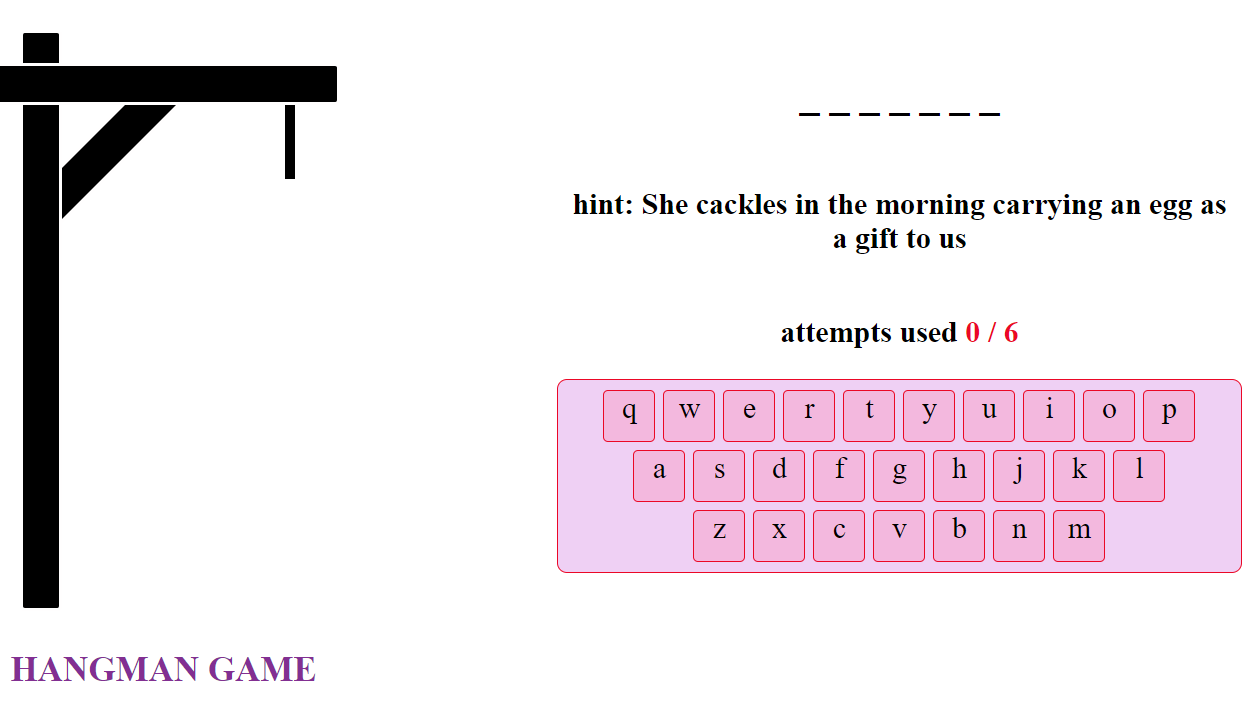
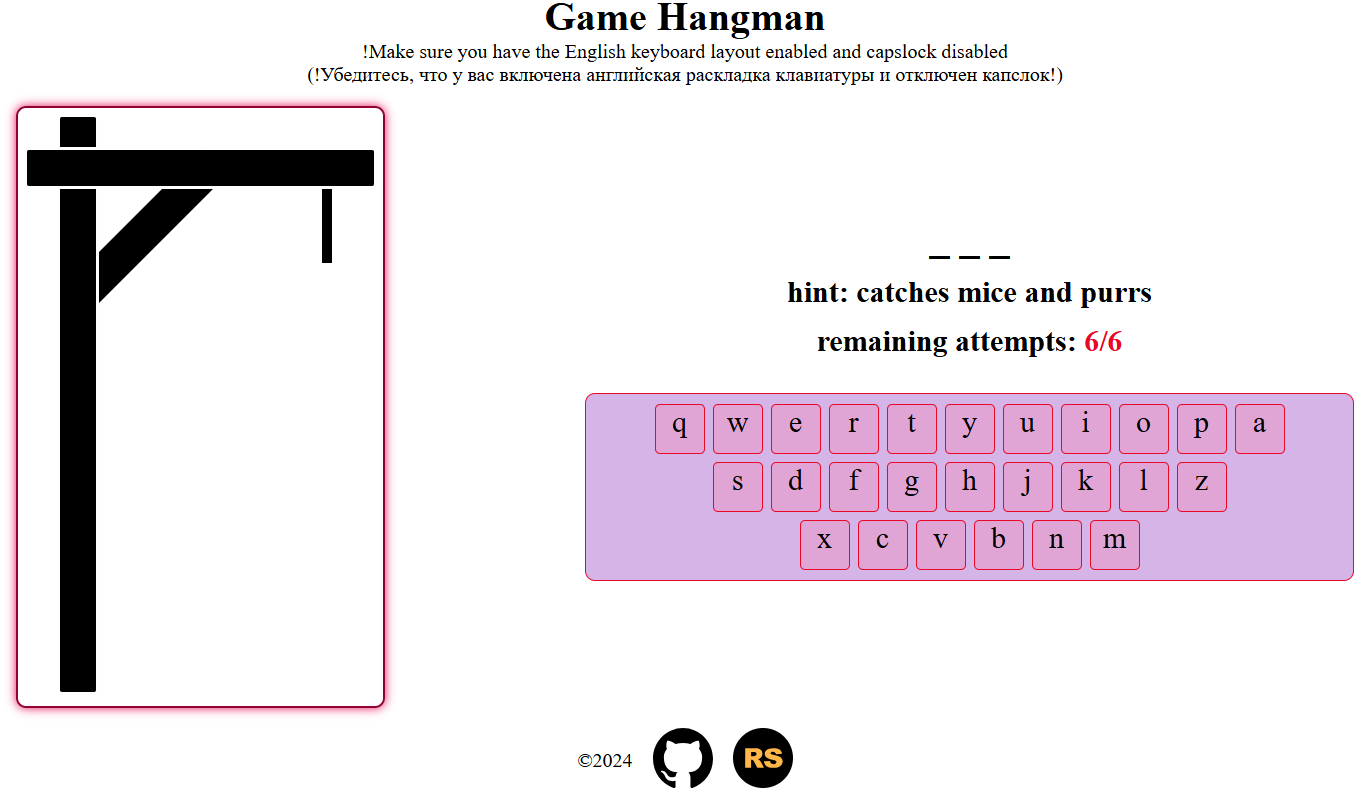
feat: new projects added for projects section

diff --git a/index.html b/index.html
@@ -116,34 +116,61 @@
             </pre>
          </section>
          <section class="section" id="projects">
-            <h2>Projects:</h2>
+            <h2>My projects:</h2>
             <div class="container_projects">
                <div class="projects_item">
-                  <a href="https://rolling-scopes-school.github.io/besyashka-JSFE2023Q4/coffee-house/pages/home/index.html" class="link" target="_blank">
+                  <a href="https://besyashka.github.io/project-Coffee-house/coffee-house/" class="link" target="_blank">
                      <img src="./assets/png/coffee-house.png" alt="image site Coffee house" class="projects-img">
                   </a>
-                  <a href="https://rolling-scopes-school.github.io/besyashka-JSFE2023Q4/coffee-house/pages/home/index.html" class="link" target="_blank">
-                     <h3>Site - Coffee house</h3>
+                  <a href="https://besyashka.github.io/project-Coffee-house/coffee-house/" class="link" target="_blank">
+                     <h4>Coffee house (website)</h4>
                   </a>
-                  <p>Coffee shop is a project within which a website was created, consisting of two pages, with adaptive and interactive design (design taken from Figma).</p>
+                  <p>Coffee shop is a website consisting of two pages, was made adaptive and interactive. Layout of the site based on the layout of the  Figma (acceptable deviation from the layout is 10px).</p>
+               </div>
+               <div class="projects_item">
+                  <a href="https://besyashka.github.io/my-projects-rss/shelter/" class="link" target="_blank">
+                     <img src="./assets/png//shelter.png" alt="image site shelter" class="projects-img">
+                  </a>
+                  <a href="https://besyashka.github.io/my-projects-rss/shelter/" class="link" target="_blank">
+                     <h4>Shelter (website)</h4>
+                  </a>
+                  <p>Shelter is a website consisting of two pages, was made adaptive and interactive. Layout of the site based on the layout of the  Figma (acceptable deviation from the layout is 10px).</p>
+               </div>
+               <div class="projects_item">
+                  <a href="https://besyashka.github.io/my-projects-rss/random-game/" class="link" target="_blank">
+                     <img src="./assets/png/hangman.png" alt="image game hangman" class="projects-img">
+                  </a>
+                  <a href="https://besyashka.github.io/my-projects-rss/random-game/" class="link" target="_blank">
+                     <h4>Hangman (game)</h4>
+                  </a>
+                  <p>This game is Hangman, a classic word game where you have to find the correct answer by guessing the letters one by one. Сan use either a virtual or physical keyboard. These are game in which the body in the index.html file must initially be empty, all the necessary elements are generated using JS.</p>
                </div>
                <div class="projects_item">
                   <a href="https://rolling-scopes-school.github.io/besyashka-JSFE2023Q4/nonograms/" class="link" target="_blank">
-                     <img src="./assets/png/nonograms.png" alt="image game Nonograms" class="projects-img">
+                     <img src="./assets/png/nonograms.png" alt="image game nonograms" class="projects-img">
                   </a>
                   <a href="https://rolling-scopes-school.github.io/besyashka-JSFE2023Q4/nonograms/" class="link" target="_blank">
-                     <h3>Game - Nonograms</h3>
+                     <h4>Nonograms (game)</h4>
                   </a>
-                  <p>Game Nonograms is a project within which the classic game - Japanese crosswords - was implemented. All necessary elements are generated using JS.</p>
+                  <p>Game Nonograms is a project within which the classic game - Japanese crosswords - was implemented. These are game in which the body in the index.html file must initially be empty, all the necessary elements are generated using JS.</p>
                </div>
                <div class="projects_item">
-                  <a href="https://rolling-scopes-school.github.io/besyashka-JSFE2023Q4/hangman/" class="link" target="_blank">
-                     <img src="./assets/png/hangman.png" alt="image game Hangman" class="projects-img">
+                  <a href="https://besyashka.github.io/my-projects-rss/audio-player/" class="link" target="_blank">
+                     <img src="./assets/png/audio-player.png" alt="image audio player" class="projects-img">
                   </a>
-                  <a href="https://rolling-scopes-school.github.io/besyashka-JSFE2023Q4/hangman/" class="link" target="_blank">
-                     <h3>Game - Hangman</h3>
+                  <a href="https://besyashka.github.io/my-projects-rss/audio-player/" class="link" target="_blank">
+                     <h4>Audio player (player)</h4>
                   </a>
-                  <p>The Hangman game is a project that implements a word game in which you need to find the correct answer by guessing the letters one by one. It is possible to use both a virtual keyboard and a physical keyboard to play the game.</p>
+                  <p>This is a music player that allows you to play music tracks one by one or scroll through them by clicking on the buttons. Each music track has a specific image, title and author of the track. The duration of the audio track and its current playing time are displayed.</p>
+               </div>
+               <div class="projects_item">
+                  <a href="https://besyashka.github.io/my-projects-rss/image-gallery/" class="link" target="_blank">
+                     <img src="./assets/png/image-gallery.png" alt="image image gallery" class="projects-img">
+                  </a>
+                  <a href="https://besyashka.github.io/my-projects-rss/image-gallery/" class="link" target="_blank">
+                     <h4>Image Gallery (gallery)</h4>
+                  </a>
+                  <p>This is an application that displays photos received from the API. Search has been added to the application. When you enter a search query, the photos that are displayed in the application change.</p>
                </div>
             </div>
          </section>

diff --git a/style.css b/style.css
@@ -21,6 +21,11 @@ h2 {
    line-height: 60px;
 }
 
+.text-dark {
+   padding: 10px;
+   color: #181718;
+}
+
 .wrapper {
    margin: 0 auto;
    max-width: 1440px;
@@ -123,11 +128,12 @@ h2 {
    display: flex;
    flex-wrap: wrap;
    justify-content: center;
-   gap: 60px;
+   gap: 30px;
+   margin: 20px 0;
 }
 
 .projects_item {
-   width: 450px;
+   width: 350px;
    padding: 5px;
    text-align: center;
    color: #000000;
@@ -144,13 +150,14 @@ h2 {
    transform: scale(1);
    transition: 0.5s ease-out;
    &:hover {
-     transform: scale(1.1);
+     transform: scale(1.05);
    }
 }
 
 .container_courses {
    display: flex;
    flex-wrap: wrap;
+   justify-content: center;
    gap: 60px;
 }
 
